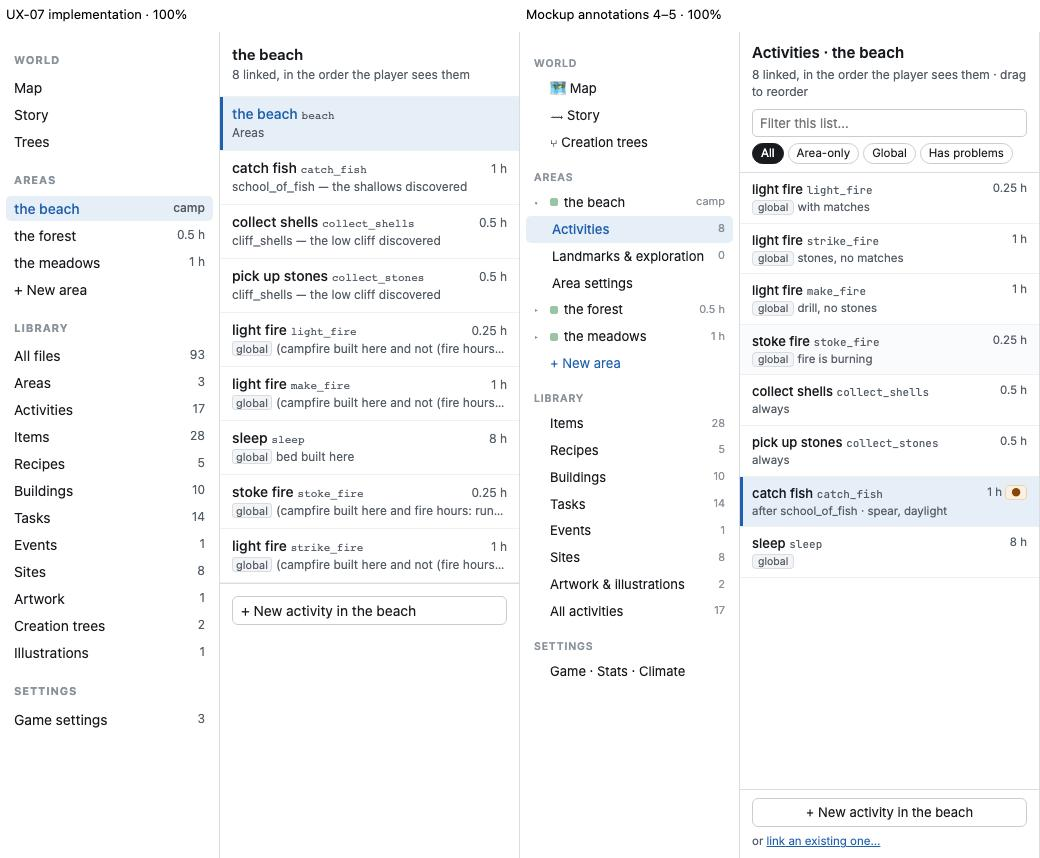
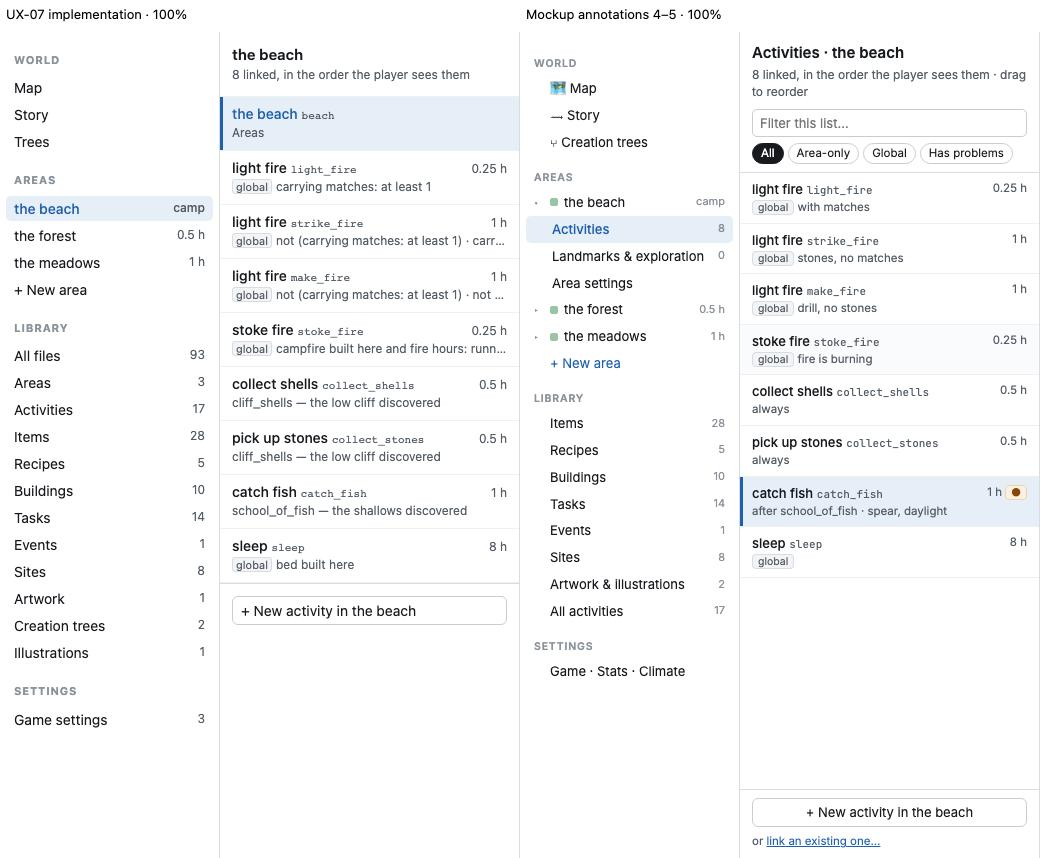
UX-07 review fixes: distinguishing meta, link order, sticky offset

Changed region(s): [[0.2154, 0.1818, 0.4923, 0.6667], [0.4615, 0.2424, 0.4923, 0.2727]]

diff --git a/tests/studio/entity-list.test.ts b/tests/studio/entity-list.test.ts
@@ -2,8 +2,14 @@ import { readFileSync } from "node:fs";
 import { createElement } from "react";
 import { renderToStaticMarkup } from "react-dom/server";
 import { expect, it } from "vitest";
-import { EntityList } from "../../src/studio/shell/EntityList";
-import { kindSingulars, readDocuments } from "../../src/studio/documents";
+import { EntityList, distinguishingMeta } from "../../src/studio/shell/EntityList";
+import { areaDocuments, kindSingulars, readDocuments } from "../../src/studio/documents";
+import { readContentFiles } from "../helpers";
+
+const fixtureDocuments = readDocuments(Object.entries(readContentFiles()).map(([path, raw]) => ({
+  path, content: JSON.stringify(raw), encoding: "utf8" as const, hash: "fixture",
+}))).documents;
+const beach = fixtureDocuments.find(document => document.id === "beach")!;
 
 const { documents } = readDocuments(["light_fire", "strike_fire", "make_fire"].map(id => ({
   path: `content/activities/${id}.json`, encoding: "utf8" as const, hash: id,
@@ -50,4 +56,47 @@ it("renders item category and tool tags, empty item metadata and kind labels", (
   expect(html).toContain('tool · sharp · fire_starter');
   expect(html).toContain('entity-row-meta" title=""></span>');
   expect(html).toContain('entity-row-meta" title="Sites">Sites</span>');
+});
+
+it("removes only parts shared by all same-named visible beach activities", () => {
+  const rows = areaDocuments(fixtureDocuments, beach);
+  const meta = distinguishingMeta(rows, fixtureDocuments);
+  const fire = rows.filter(row => row.label === "light fire");
+  const texts = fire.map(row => meta.get(row.path)!);
+  expect(new Set(texts).size).toBe(3);
+  for (const text of texts) {
+    expect(text).not.toContain("campfire");
+    expect(text).not.toContain("fire hours");
+  }
+  expect(texts[0]).toMatch(/^carrying matches/);
+  expect(texts[1]).toMatch(/^not \(carrying matches.* · carrying stone/);
+  expect(texts[2]).toMatch(/^not \(carrying matches.* · not \(carrying stone/);
+  const unique = distinguishingMeta([fire[0]], fixtureDocuments).get(fire[0].path)!;
+  expect(unique).toContain("campfire built here");
+  expect(unique).not.toMatch(/^\(/);
+  const fallback = distinguishingMeta([fire[0], { ...fire[0], path: "copy" }], fixtureDocuments);
+  expect(fallback.get("copy")).toBe(`(${unique})`);
+});
+
+it("unwraps a unique top-level any group and falls back to requirements or always", () => {
+  const rows = [
+    { ...documents[0], label: "unique", raw: { requires: { any: [{ item: "matches" }, { item: "stone" }] } } },
+    { ...documents[1], label: "unconditional", raw: {} },
+  ];
+  const meta = distinguishingMeta(rows, fixtureDocuments);
+  expect(meta.get(rows[0].path)).toMatch(/^carrying matches.* or carrying stone.*1$/);
+  expect(meta.get(rows[1].path)).toBe("always");
+});
+
+it("orders the fixture beach area before its linked activities in authored player order", () => {
+  expect(areaDocuments([...fixtureDocuments].reverse(), beach).map(document => document.id)).toEqual([
+    "beach", "light_fire", "strike_fire", "make_fire", "stoke_fire", "collect_shells", "collect_stones", "catch_fish", "sleep",
+  ]);
+});
+
+it("appends unlinked globals by name without repeating linked globals", () => {
+  const area = { ...beach, raw: { ...beach.raw as object, activities: ["sleep", "collect_shells"] } };
+  expect(areaDocuments([...fixtureDocuments].reverse(), area).map(document => document.id)).toEqual([
+    "beach", "sleep", "collect_shells", "light_fire", "make_fire", "strike_fire", "stoke_fire",
+  ]);
 });

diff --git a/src/studio/shell/EntityList.tsx b/src/studio/shell/EntityList.tsx
@@ -3,6 +3,24 @@ import { kindLabels, kindSingulars, type Document } from "../documents";
 import { describe } from "../describe";
 import { entitySchemas } from "../schema";
 
+export function distinguishingMeta(rows: Document[], documents: Document[]): Map<string, string> {
+  const activities = rows.filter(row => row.kind === "activities").map(row => {
+    const raw = row.raw as { visibleWhen?: unknown; requires?: unknown } | undefined;
+    const condition = raw?.visibleWhen ?? raw?.requires;
+    const group = condition as { all?: unknown[]; any?: unknown[] } | undefined;
+    const full = condition === undefined ? "always" : describe(condition, "condition", documents);
+    const parts = Array.isArray(group?.all) ? group.all.map(child => describe(child, "condition", documents)) : [full];
+    const unwrapped = (Array.isArray(group?.all) || Array.isArray(group?.any)) && full.startsWith("(") && full.endsWith(")")
+      ? full.slice(1, -1) : full;
+    return { row, full, parts, unwrapped };
+  });
+  return new Map(activities.map(activity => {
+    const peers = activities.filter(other => other.row.label === activity.row.label);
+    const unique = activity.parts.filter(part => !peers.every(peer => peer.parts.includes(part)));
+    return [activity.row.path, peers.length > 1 ? unique.join(" · ") || activity.full : activity.unwrapped];
+  }));
+}
+
 export function EntityList({ documents, visible, selectedPath, scope, area, drafts, diagnostics, empty, select, create }: {
   documents: Document[]; visible: Document[]; selectedPath?: string; scope: string; area?: Document;
   drafts: ReadonlyMap<string, unknown>; diagnostics: ContentProblem[]; empty: string;
@@ -10,6 +28,7 @@ export function EntityList({ documents, visible, selectedPath, scope, area, draf
 }) {
   const links = (area?.raw as { activities?: unknown[] } | undefined)?.activities;
   const singular = kindSingulars[scope];
+  const activityMeta = distinguishingMeta(visible, documents);
   return <section className="entity-list" aria-label="Entity list">
     <div className="list-heading"><h1>{area ? area.label : kindLabels[scope] ?? "All files"}</h1>
       <p>{area ? `${links?.length ?? 0} linked, in the order the player sees them` : `${visible.length} files`}</p></div>
@@ -19,8 +38,7 @@ export function EntityList({ documents, visible, selectedPath, scope, area, draf
         tool?: { tags?: string[] };
       } | undefined;
       const activity = document.kind === "activities";
-      const condition = raw?.visibleWhen ?? raw?.requires;
-      const meta = activity ? condition === undefined ? "always" : describe(condition, "condition", documents)
+      const meta = activity ? activityMeta.get(document.path)!
         : document.kind === "items" ? raw?.tool?.tags?.length ? `tool · ${raw.tool.tags.join(" · ")}` : ""
         : kindLabels[document.kind] ?? document.kind;
       const key = activity ? raw?.hours === undefined ? "" : `${raw.hours} h` : document.kind === "items" ? raw?.category : "";

diff --git a/tests/studio-browser/navigation.spec.ts b/tests/studio-browser/navigation.spec.ts
@@ -60,7 +60,18 @@ test("sidebar buttons work by keyboard and the 390px list distinguishes light fi
   const fire = list(page).locator(".entity-row").filter({ has: page.locator("strong", { hasText: /^light fire$/ }) });
   await expect(fire).toHaveCount(3);
   expect(new Set(await fire.locator(".entity-row-meta").allTextContents()).size).toBe(3);
+  for (const meta of await fire.locator(".entity-row-meta").all()) await expect(meta).not.toContainText("campfire");
   await page.setViewportSize({ width: 390, height: 844 });
   expect(await page.evaluate(() => document.documentElement.scrollWidth)).toBe(390);
   await expect(list(page).getByRole("button", { name: "+ New activity in the beach", exact: true })).toBeVisible();
+});
+
+test("beach activity rows follow player order and the list heading sticks to the viewport edge", async ({ page }) => {
+  await page.goto("/studio/");
+  await nav(page).getByRole("button", { name: "the beach", exact: true }).click();
+  await expect(list(page).locator(".entity-row code")).toHaveText([
+    "beach", "light_fire", "strike_fire", "make_fire", "stoke_fire", "collect_shells", "collect_stones", "catch_fish", "sleep",
+  ]);
+  await page.evaluate(() => window.scrollTo(0, 300));
+  await expect.poll(async () => (await list(page).locator(".list-heading").boundingBox())?.y).toBe(0);
 });

diff --git a/src/studio/documents.ts b/src/studio/documents.ts
@@ -62,8 +62,12 @@ export function readDocuments(all: FileDocument[], validate = true): { documents
 }
 export function areaDocuments(documents: Document[], area: Document): Document[] {
   const links = (area.raw as { activities?: unknown })?.activities;
-  return [area, ...documents.filter((document) => document.kind === "activities"
-    && ((Array.isArray(links) && links.includes(document.id)) || (document.raw as { global?: boolean })?.global))];
+  const activities = documents.filter(document => document.kind === "activities");
+  const linkedIds = new Set(Array.isArray(links) ? links : []);
+  const linked = [...linkedIds].flatMap(id => activities.filter(document => document.id === id));
+  const globals = activities.filter(document => !linkedIds.has(document.id) && (document.raw as { global?: boolean })?.global)
+    .sort((a, b) => a.label.localeCompare(b.label) || a.id.localeCompare(b.id));
+  return [area, ...linked, ...globals];
 }
 /** Diagnostics in `current` beyond those already in `baseline` (multiset match on file, path and message). */
 export function introducedProblems(baseline: ContentProblem[], current: ContentProblem[]): ContentProblem[] {

diff --git a/src/studio/studio.css b/src/studio/studio.css
@@ -42,7 +42,7 @@ p { line-height: 1.6; }
 [aria-current="page"], button[aria-pressed="true"] { background: var(--studio-accent-soft); color: var(--studio-accent); }
 .studio-nav button[aria-current="page"] { font-weight: 500; background: var(--studio-accent-soft); color: var(--studio-accent); }
 .entity-list { padding: 0; }
-.list-heading { position: sticky; top: 48px; z-index: 2; padding: 12px; background: var(--studio-panel); border-bottom: 1px solid #eef0f2; }
+.list-heading { position: sticky; top: 0; z-index: 2; padding: 12px; background: var(--studio-panel); border-bottom: 1px solid #eef0f2; }
 .list-heading h1 { font-size: 15px; font-weight: 600; }
 .list-heading p, .document-heading p, .json-heading span, .empty { font-size: 12px; color: var(--studio-muted); }
 .entity-list .entity-row { width: 100%; display: flex; flex-direction: column; gap: 3px; border: 0; border-bottom: 1px solid #eef0f2; border-radius: 0; padding: 8px 12px; }

diff --git a/tests/studio/sidebar.test.ts b/tests/studio/sidebar.test.ts
@@ -20,7 +20,7 @@ it("renders the four navigation groups, ordered kinds, counts and named area tra
   expect(html).toContain('aria-label="the forest" aria-current="page">the forest<span>0.5 h</span>');
   expect(html).toContain('All files<span>4</span>');
   expect(html).toContain('Items<span>1</span>');
-  expect(html).toContain('Illustrations<span>0</span>');
+  expect(html).not.toContain('Illustrations');
   expect(html).toContain('Game settings<span>1</span>');
   expect(html.indexOf('Areas<span>2')).toBeLessThan(html.indexOf('Items<span>1'));
   expect(html).not.toContain('aria-expanded');

diff --git a/src/studio/shell/Sidebar.tsx b/src/studio/shell/Sidebar.tsx
@@ -22,7 +22,7 @@ export function Sidebar({ documents, scope, browse, openArea, newArea }: {
     <button onClick={newArea}>+ New area</button>
     <h2>Library</h2>
     {row("all", "All files", documents.length)}
-    {Object.keys(kindLabels).filter(kind => kind !== "settings")
+    {Object.keys(kindLabels).filter(kind => kind !== "settings" && count(kind) > 0)
       .map(kind => row(kind, kindLabels[kind], count(kind)))}
     <h2>Settings</h2>
     {row("settings", kindLabels.settings, count("settings"))}

diff --git a/docs/mockups/studio/README.md b/docs/mockups/studio/README.md
@@ -499,17 +499,20 @@ All captures use a disposable copy of frozen fixture content; no content is writ
 
 - World retains the accessible names Map, Story and Trees. Areas have one named row with camp
   or travel hours, without disclosures or child rows: the row opens the area workspace and
-  its existing area-plus-activities list. Library includes All files and each kind in
+  its area-plus-activities list. Library includes All files and kinds with files in
   `kindLabels` order; Settings retains Game settings. No decorative glyphs or area-state dots.
 - Existing global Search content stays; list filters, chips, drag ordering and a second link
-  action at the footer are deferred. Existing linking remains in the area workspace. Candidate
-  order is unchanged (area file first), rather than the mockup's activity-only player order.
+  action at the footer are deferred. Existing linking remains in the area workspace. Area lists
+  show the area file first, then linked activities in authored order, then unlinked globals by name.
 - Activity metadata uses the existing `describe()` output for visibility, then requirements,
-  rather than handcrafted shorthand. Long metadata uses ellipsis and a full-text title.
+  rather than handcrafted shorthand. Same-named visible activities omit condition parts shared
+  by every peer; unique names omit outer group parentheses. Long metadata uses ellipsis and a
+  full-text title.
   Item rows show category and tool tags; other kinds retain their kind label. Unsaved retains
   its text as well as a warning dot. Top-bar Create remains until UX-08.
 - Columns retain page scrolling and phone stacking. The desktop sidebar/list use the specified
-  220/300 px widths; existing narrower breakpoints and Preview sizing remain.
+  220/300 px widths; existing narrower breakpoints and Preview sizing remain. The list heading
+  sticks at the viewport top (0 px) because the top bar scrolls away.
 - Kind creation footers use `entitySchemas`, the same source as the existing Create dialog.
   Unsupported kinds (Illustrations, Creation trees and Game settings) have no creation footer;
   area scopes retain their contextual linked-activity creation action.
